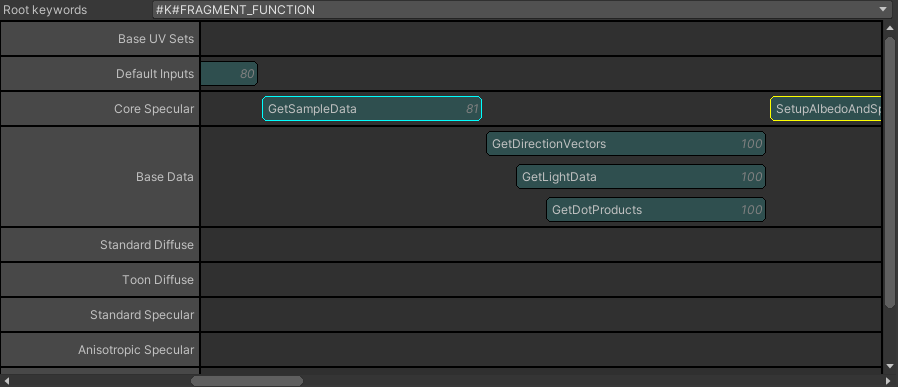
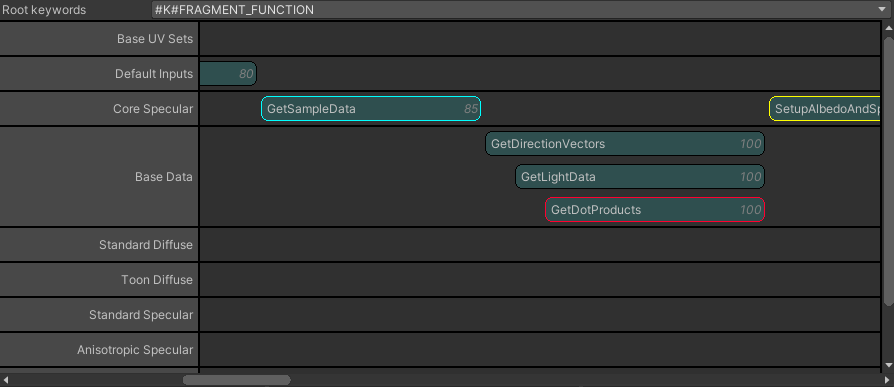
Updated documentation

diff --git a/.docs/guides/ModularShaderDebugger/FunctionTimeline.md b/.docs/guides/ModularShaderDebugger/FunctionTimeline.md
@@ -31,13 +31,23 @@ You can select which timeline to show by selecting the root you want to see in t
 
 A single element contains the name of the function on the left, and it's queue on the right (the queue is always relative to its parent `AppendAfter`)
 
-The selected element will have a cyan border, while elements with a yellow borders indicate a function that contains the variable selected in the `Selected Function information` area.
+The selected element will have a cyan border, elements with a yellow borders indicate a function that contains the variable selected in the `Selected Function information` area, and elements with a red border indicate a function that contains the variable selected in the `Variables List` area.
 
 ![unselected item](/images/docs/ModularShaderDebugger/8.png)
 
 ![selected item](/images/docs/ModularShaderDebugger/9.png)
 
 ![item with selected variable](/images/docs/ModularShaderDebugger/10.png)
+
+![item with selected variable from variables list](/images/docs/ModularShaderDebugger/10-2.png)
+
+## Variables List
+
+![Variables List](/images/docs/ModularShaderDebugger/16.png)
+
+This area shows a list containing all the variables available in the modular shader.
+
+Selecting a variable will show which functions in the timeline use that variable, giving you the possibility to check where it's used and for what.
 
 ## Selected function information
 
@@ -47,7 +57,7 @@ This area shows informations relative to the function, such as the name, queue, 
 
 It also shows its variables and in which keywords variables and implementation are put on.
 
-Selecting a variable will show which other functions in the timeline that use the same variable, giving you the possibility to check where it's used and for what.
+Selecting a variable will show which other functions in the timeline use the same variable, giving you the possibility to check where it's used and for what.
 
 ## Function's module base info
 
